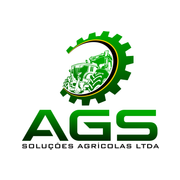
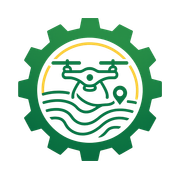
feat: rebrand to AGS GEO and update visual assets

diff --git a/components/painel/logo.tsx b/components/painel/logo.tsx
@@ -1,7 +1,8 @@
 import Image from "next/image"
 
-// Marca da AGS. Usa o simbolo (engrenagem + trator) recortado da logo real
-// dentro de um badge claro para garantir contraste sobre o verde da marca.
+// Marca da nova area: AGS GEO — Levantamento e Geoprocessamento.
+// Mantem a familia visual da AGS (engrenagem verde + dourado), trocando o
+// trator por um drone/varredura topografica para identificar a frente de tecnologia.
 export function Logo({
   size = 40,
   showText = true,
@@ -20,8 +21,8 @@ export function Logo({
         style={{ width: size, height: size }}
       >
         <Image
-          src="/ags-mark.png"
-          alt="Símbolo da AGS Soluções Agrícolas"
+          src="/ags-geo-mark-trim.png"
+          alt="Símbolo da AGS GEO"
           width={size}
           height={size}
           className="h-full w-full object-contain p-1.5"
@@ -30,9 +31,11 @@ export function Logo({
       </span>
       {showText && (
         <span className="leading-none">
-          <span className={`block text-lg font-extrabold tracking-tight ${titleColor}`}>AGS</span>
-          <span className={`block text-[10.5px] font-semibold uppercase tracking-[0.14em] ${subColor}`}>
-            Soluções Agrícolas
+          <span className={`block text-lg font-extrabold tracking-tight ${titleColor}`}>
+            AGS <span className="text-gold">GEO</span>
+          </span>
+          <span className={`mt-1 block text-[9.5px] font-semibold uppercase tracking-[0.14em] ${subColor}`}>
+            Levantamento e Geoprocessamento
           </span>
         </span>
       )}
@@ -40,16 +43,41 @@ export function Logo({
   )
 }
 
-// Logo completa (simbolo + lettering) em cores originais, para fundos claros.
-export function LogoFull({ width = 160, className }: { width?: number; className?: string }) {
+// Lockup completo (simbolo grande + lettering empilhado), para splash e telas amplas.
+export function LogoFull({
+  size = 96,
+  variant = "light",
+  className,
+}: {
+  size?: number
+  variant?: "light" | "dark"
+  className?: string
+}) {
+  const titleColor = variant === "light" ? "text-white" : "text-brand-dark"
+  const subColor = variant === "light" ? "text-white/75" : "text-muted-foreground"
   return (
-    <Image
-      src="/ags-logo-full.png"
-      alt="AGS Soluções Agrícolas LTDA"
-      width={width}
-      height={Math.round((width * 978) / 1130)}
-      className={className}
-      priority
-    />
+    <div className={`flex flex-col items-center gap-3 ${className ?? ""}`}>
+      <span
+        className="flex items-center justify-center overflow-hidden rounded-3xl bg-white shadow-md ring-1 ring-black/10"
+        style={{ width: size, height: size }}
+      >
+        <Image
+          src="/ags-geo-mark-trim.png"
+          alt="AGS GEO"
+          width={size}
+          height={size}
+          className="h-full w-full object-contain p-2.5"
+          priority
+        />
+      </span>
+      <span className="text-center leading-none">
+        <span className={`block text-2xl font-extrabold tracking-tight ${titleColor}`}>
+          AGS <span className="text-gold">GEO</span>
+        </span>
+        <span className={`mt-1.5 block text-[10px] font-semibold uppercase tracking-[0.2em] ${subColor}`}>
+          Levantamento e Geoprocessamento
+        </span>
+      </span>
+    </div>
   )
 }

diff --git a/components/painel/splash-screen.tsx b/components/painel/splash-screen.tsx
@@ -1,7 +1,7 @@
 "use client"
 
 import { useEffect, useState } from "react"
-import { LogoFull } from "./logo"
+import Image from "next/image"
 
 // Tela de abertura: identidade AGS com varredura de drone / radar topografico.
 // Aparece no "cold start" do app, faz fade e some.
@@ -23,7 +23,7 @@ export function SplashScreen({ onDone }: { onDone: () => void }) {
         leaving ? "ags-splash-out" : ""
       }`}
       role="status"
-      aria-label="Carregando AGS Soluções Agrícolas"
+      aria-label="Carregando AGS GEO"
     >
       {/* brilho radial suave */}
       <div
@@ -55,17 +55,26 @@ export function SplashScreen({ onDone }: { onDone: () => void }) {
           }}
         />
 
-        {/* cartao branco com a logo real */}
+        {/* cartao branco com o simbolo AGS GEO */}
         <div className="ags-rise relative flex h-32 w-32 items-center justify-center rounded-3xl bg-white shadow-2xl ring-1 ring-black/10">
-          <LogoFull width={104} className="h-auto w-[104px]" />
+          <Image
+            src="/ags-geo-mark-trim.png"
+            alt="AGS GEO"
+            width={104}
+            height={104}
+            className="h-auto w-[100px]"
+            priority
+          />
         </div>
       </div>
 
       {/* Wordmark */}
       <div className="ags-rise mt-7 text-center" style={{ animationDelay: "0.15s" }}>
-        <div className="text-2xl font-extrabold tracking-tight text-white">AGS Soluções Agrícolas</div>
-        <div className="mt-1 text-[11px] font-semibold uppercase tracking-[0.32em] text-[#E4D6A7]">
-          Geoprocessamento com Drone
+        <div className="text-3xl font-extrabold tracking-tight text-white">
+          AGS <span className="text-[#E3B53D]">GEO</span>
+        </div>
+        <div className="mt-1.5 text-[11px] font-semibold uppercase tracking-[0.28em] text-[#E4D6A7]">
+          Levantamento e Geoprocessamento
         </div>
       </div>
 

diff --git a/components/painel/report-shell.tsx b/components/painel/report-shell.tsx
@@ -45,9 +45,9 @@ export function ReportShell({
           className="relative mx-auto w-full max-w-[440px] overflow-hidden rounded-2xl bg-white p-6 text-[#1a1a1a] shadow-sm ring-1 ring-black/5"
           style={{ colorScheme: "light" }}
         >
-          {/* Marca d'agua (fundo branco do logo some sobre o papel branco) */}
+          {/* Marca d'agua: simbolo AGS GEO (transparente) bem tenue */}
           <img
-            src="/ags-mark.png"
+            src="/ags-geo-mark-trim.png"
             alt=""
             aria-hidden="true"
             className="pointer-events-none absolute -right-10 bottom-8 w-72 select-none opacity-[0.06]"
@@ -76,15 +76,15 @@ export function ReportHeader({ heading, meta }: { heading: string; meta?: string
       <div className="flex items-center justify-between gap-3">
         <div className="flex items-center gap-2.5">
           <img
-            src="/ags-mark.png"
-            alt="AGS"
-            className="h-10 w-10 shrink-0 rounded-lg object-contain ring-1 ring-black/5"
+            src="/ags-geo-mark-trim.png"
+            alt="AGS GEO"
+            className="h-11 w-11 shrink-0 object-contain"
           />
           <div>
-            <div className="text-[12px] font-extrabold uppercase tracking-[0.16em] text-[#1A4228]">
-              AGS Soluções Agrícolas
+            <div className="text-[13px] font-extrabold uppercase tracking-[0.16em] text-[#1A4228]">
+              AGS <span className="text-[#C99700]">GEO</span>
             </div>
-            <div className="text-[10px] font-medium text-[#6b7280]">Geoprocessamento com Drone</div>
+            <div className="text-[10px] font-medium text-[#6b7280]">Levantamento e Geoprocessamento</div>
           </div>
         </div>
         <div className="text-right text-[10px] text-[#6b7280]">

diff --git a/app/layout.tsx b/app/layout.tsx
@@ -17,16 +17,16 @@ const plexMono = IBM_Plex_Mono({
 })
 
 export const metadata: Metadata = {
-  title: 'AGS · Painel de Levantamentos',
+  title: 'AGS GEO · Levantamento e Geoprocessamento',
   description:
-    'Painel de levantamentos topográficos com drone da AGS Soluções Agrícolas — gestão de projetos, talhões, serviços, gastos e visão financeira.',
+    'AGS GEO — divisão de levantamento e geoprocessamento com drone da AGS Soluções Agrícolas. Gestão de projetos, talhões, serviços, gastos e visão financeira.',
   generator: 'v0.app',
-  applicationName: 'AGS Levantamentos',
+  applicationName: 'AGS GEO',
   manifest: '/manifest.webmanifest',
   appleWebApp: {
     capable: true,
     statusBarStyle: 'black-translucent',
-    title: 'AGS Levantamentos',
+    title: 'AGS GEO',
   },
   icons: {
     icon: [

diff --git a/app/manifest.ts b/app/manifest.ts
@@ -2,10 +2,10 @@ import type { MetadataRoute } from "next"
 
 export default function manifest(): MetadataRoute.Manifest {
   return {
-    name: "AGS · Painel de Levantamentos",
-    short_name: "AGS Levantamentos",
+    name: "AGS GEO · Levantamento e Geoprocessamento",
+    short_name: "AGS GEO",
     description:
-      "Painel de levantamentos topográficos com drone da AGS Soluções Agrícolas — projetos, talhões, serviços, gastos e visão financeira.",
+      "AGS GEO — divisão de levantamento e geoprocessamento com drone da AGS Soluções Agrícolas. Projetos, talhões, serviços, gastos e visão financeira.",
     start_url: "/",
     scope: "/",
     display: "standalone",

diff --git a/app/globals.css b/app/globals.css
@@ -35,6 +35,7 @@
   --color-green-pale: var(--green-pale);
   --color-green-light: var(--green-light);
   --color-amber-status: var(--amber-status);
+  --color-gold: var(--gold);
 
   --radius-sm: calc(var(--radius) * 0.6);
   --radius-md: calc(var(--radius) * 0.8);
@@ -74,6 +75,7 @@
   --green-pale: #f2f8f4;
   --green-light: #eaf3ed;
   --amber-status: #7a4d0f;
+  --gold: #d4a017;
 }
 
 .dark {
@@ -105,6 +107,7 @@
   --green-pale: #152119;
   --green-light: #1e3328;
   --amber-status: #c08a3a;
+  --gold: #e3b53d;
 }
 
 @layer base {

diff --git a/components/painel/screens/home-screen.tsx b/components/painel/screens/home-screen.tsx
@@ -59,7 +59,7 @@ export function HomeScreen() {
           </button>
         </div>
         <p className="text-[10px] font-bold uppercase tracking-[0.18em] text-white/55">
-          Painel de Levantamentos
+          Painel de Geoprocessamento
         </p>
         <h1 className="mt-1 mb-5 text-[22px] font-extrabold tracking-tight">Visão geral da operação</h1>
         <div className="grid grid-cols-3 gap-2.5">

diff --git a/components/painel/screens/report-client-screen.tsx b/components/painel/screens/report-client-screen.tsx
@@ -91,7 +91,7 @@ export function ReportClientScreen() {
       </ReportSection>
 
       <p className="mt-6 text-center text-[10px] leading-relaxed text-[#9ca3af]">
-        Documento gerado pelo Painel de Levantamentos AGS Soluções Agrícolas.
+        Documento gerado por AGS GEO · uma divisão da AGS Soluções Agrícolas LTDA.
         <br />
         Valores sujeitos a confirmação contratual.
       </p>

diff --git a/components/painel/screens/investments-report-screen.tsx b/components/painel/screens/investments-report-screen.tsx
@@ -55,7 +55,7 @@ export function InvestmentsReportScreen() {
       </ReportSection>
 
       <p className="mt-6 text-center text-[10px] leading-relaxed text-[#9ca3af]">
-        Documento interno — Painel de Levantamentos AGS Soluções Agrícolas.
+        Documento interno — AGS GEO · uma divisão da AGS Soluções Agrícolas LTDA.
       </p>
     </ReportShell>
   )

diff --git a/components/painel/screens/report-expenses-screen.tsx b/components/painel/screens/report-expenses-screen.tsx
@@ -81,7 +81,7 @@ export function ReportExpensesScreen() {
       </ReportSection>
 
       <p className="mt-6 text-center text-[10px] leading-relaxed text-[#9ca3af]">
-        Documento interno — Painel de Levantamentos AGS Soluções Agrícolas.
+        Documento interno — AGS GEO · uma divisão da AGS Soluções Agrícolas LTDA.
       </p>
     </ReportShell>
   )
